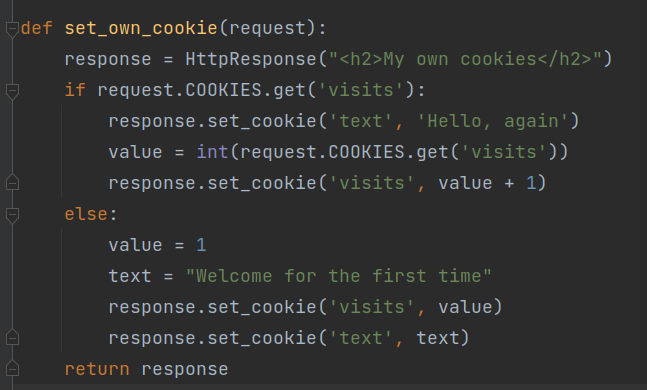
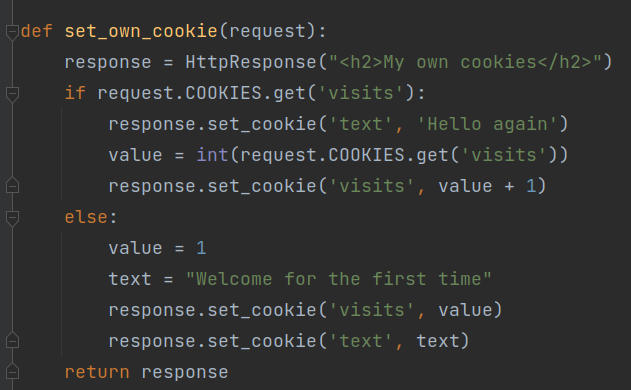
Solutions for exercise #4 - sessions and cookies in Django

diff --git a/django-framework-exercises/sessions-and-cookies/src/README.md b/django-framework-exercises/sessions-and-cookies/src/README.md
@@ -41,7 +41,7 @@
 * Django’s request object has an attribute COOKIES (available via ```request.COOKIES```), which behaves like standard dictionary. You can  use dictionary's methods like for example [get](https://www.geeksforgeeks.org/get-method-dictionaries-python/),  
 
 * add view ```set_own_cookie``` that checks if we have set cookie named ```visits```:
-   * if yes then increase (+1) value for this cookie and set value ```Hello, again``` for second cookie named ```text```.  
+   * if yes then increase (+1) value for this cookie and set value ```Hello again``` for second cookie named ```text```.  
    * if not set value of this cookie on 1 and set value ```Welcome for the first time``` for second cookie named ```text```
       ![ex4-9](../../../django-framework-exercises/screenshots/ex4-9.png)
 
